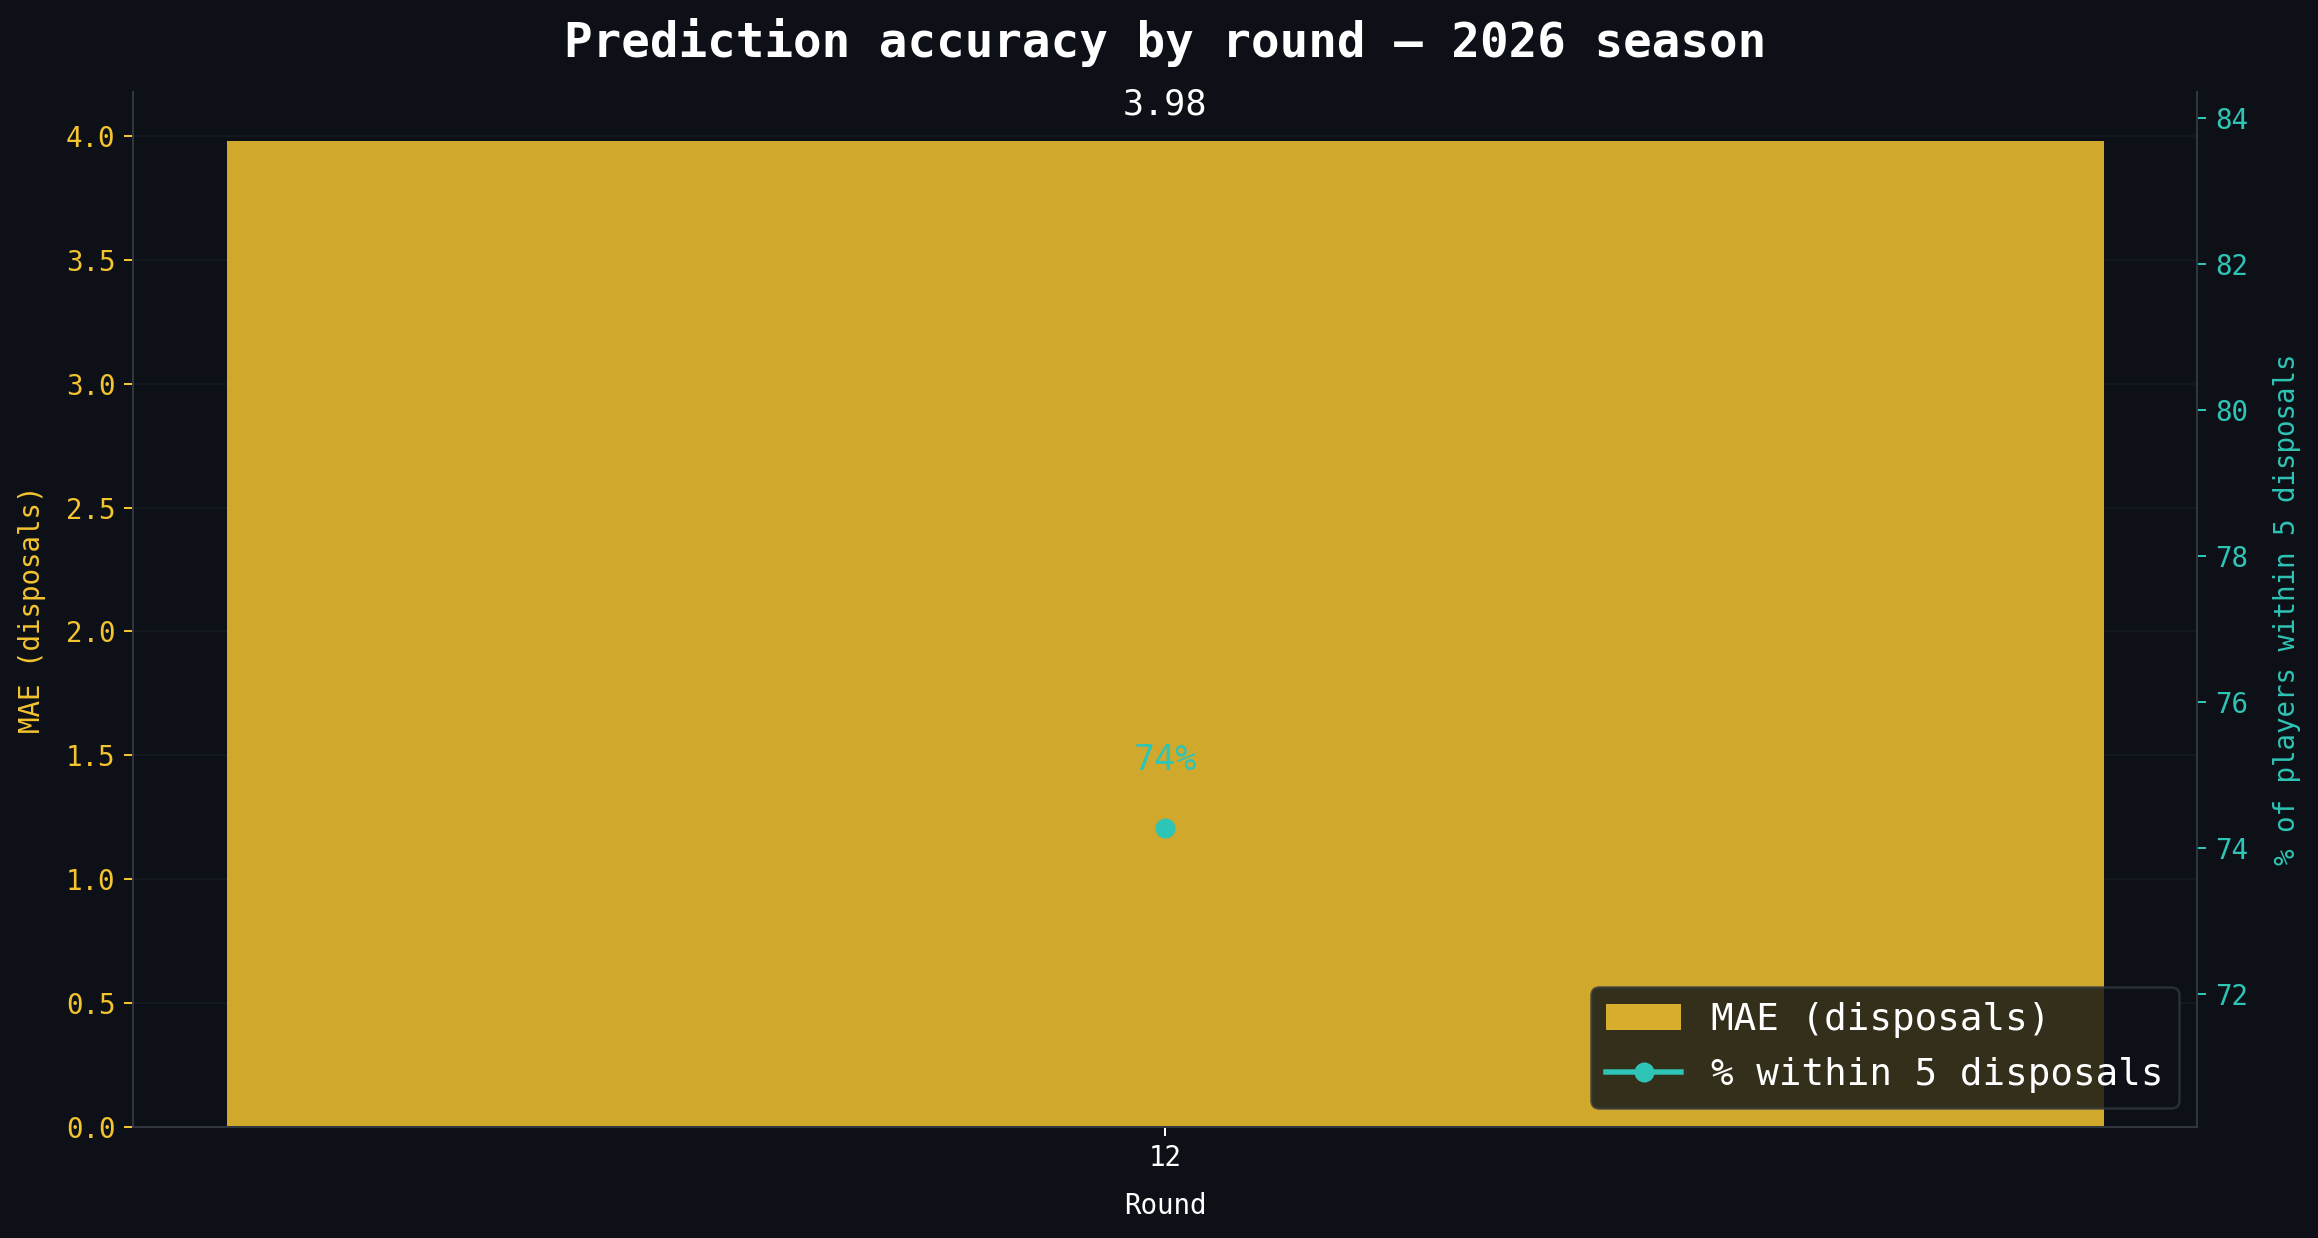
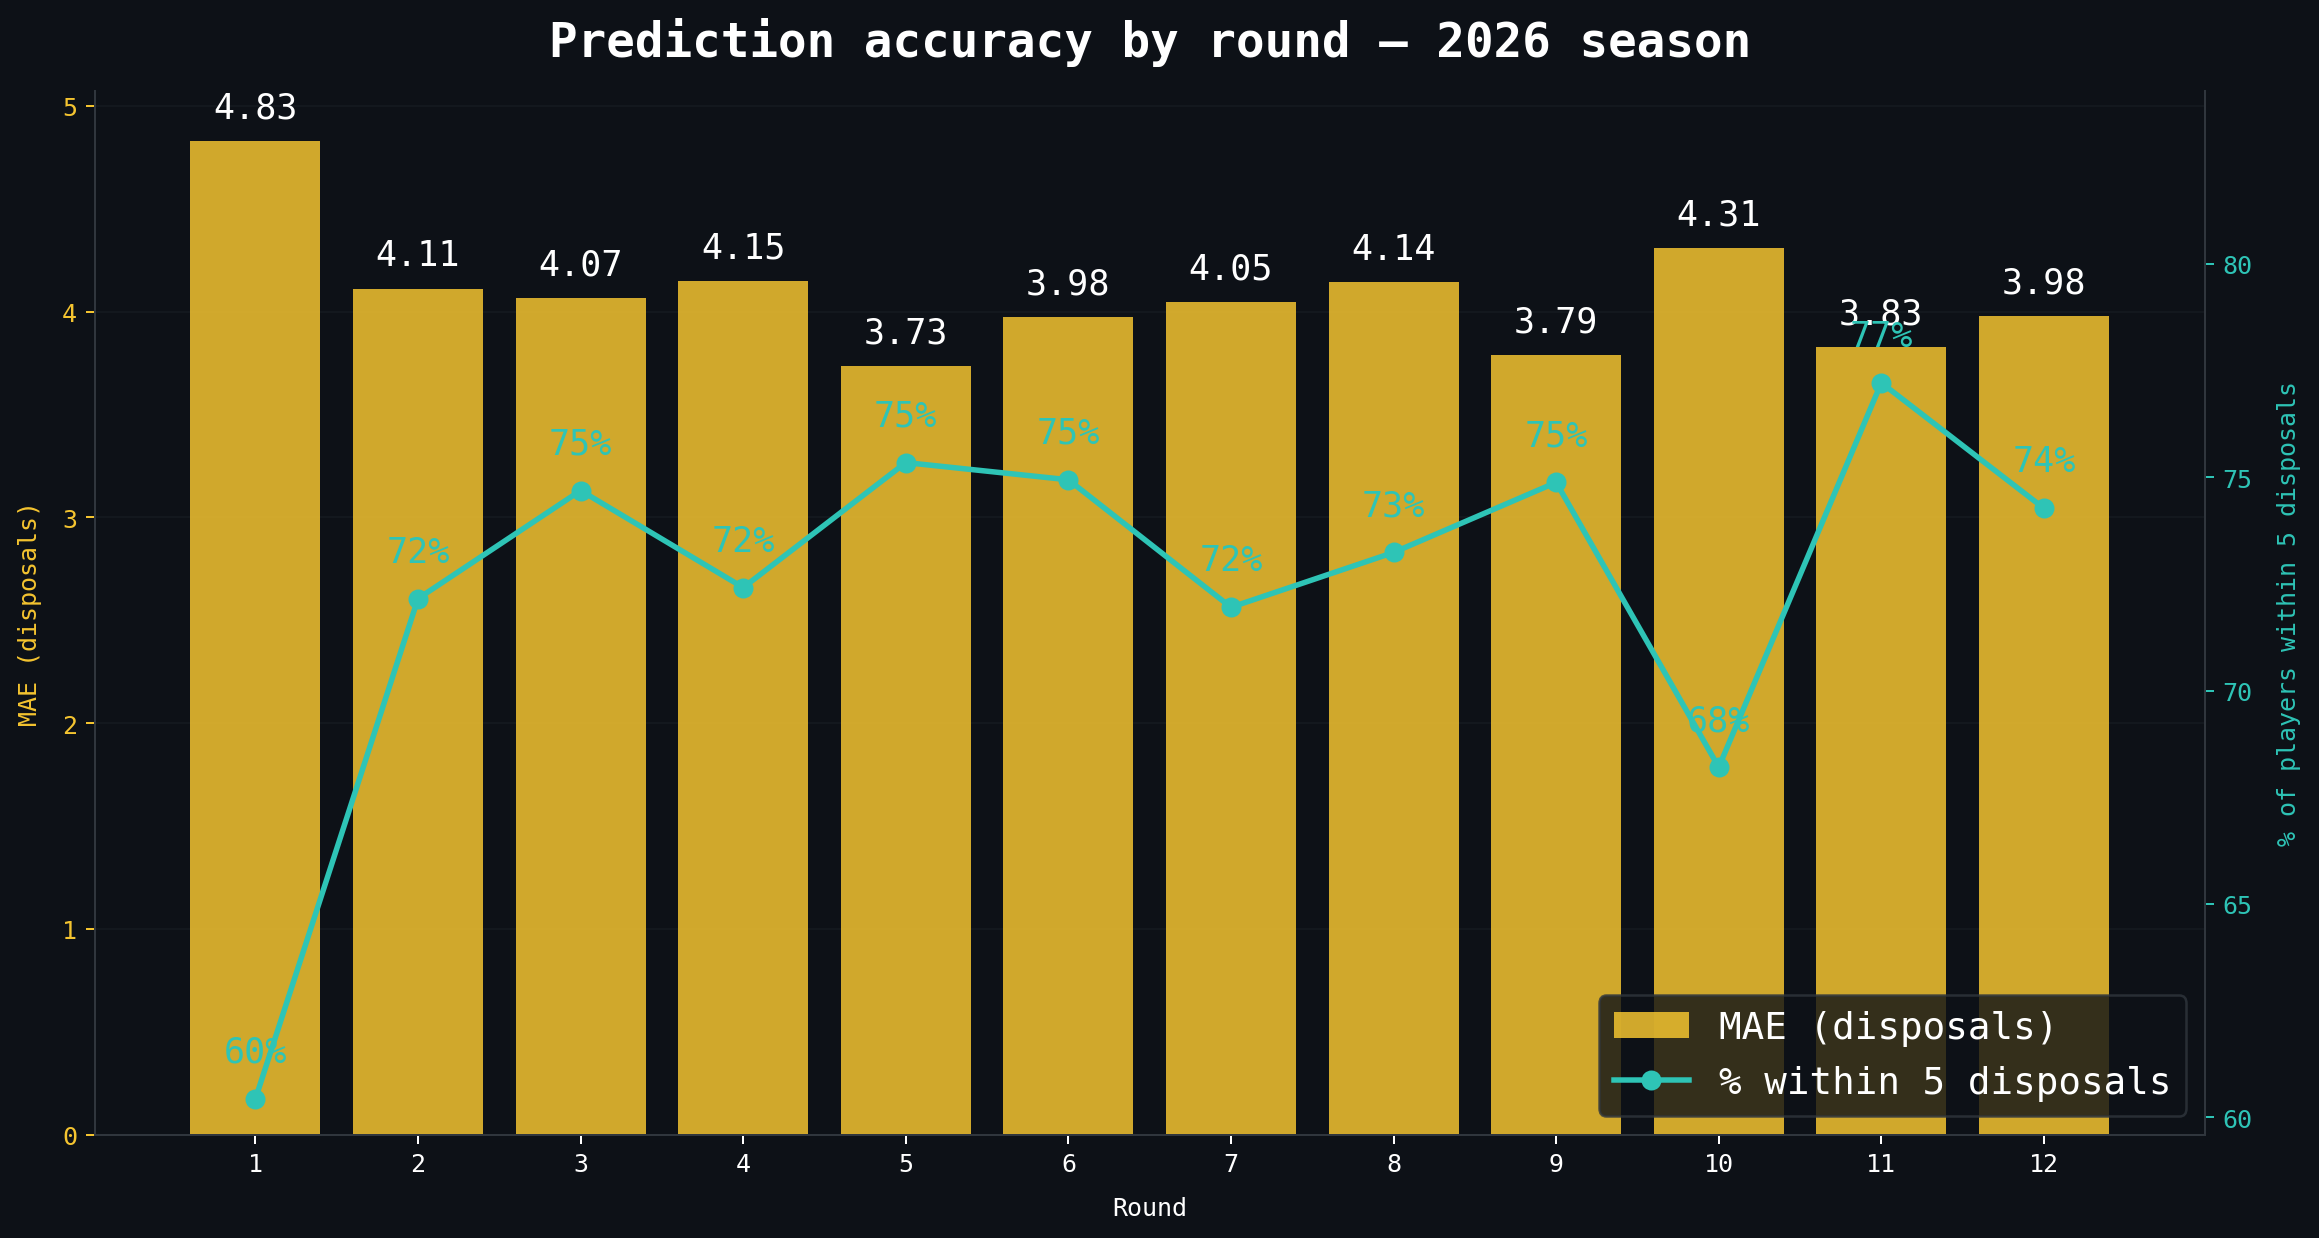
Fix backtest doc to show cumulative R1-R12 results (not just latest run)
update_team_analysis.py: merge ALL backtest_summary CSVs (oldest-first),
keep most-recent entry per (year,round) so incremental runs extend the
table rather than replacing it. Was broken because the R12-only summary
file was newer than the R1-R11 file and got picked exclusively.

afl-backtest-2026.md: update cumulative summary to R1-R12:
  - Rounds: 12, Player-rounds: 4,494, MAE: 4.056, RMSE: 5.190, Bias: -0.084
  - Chart regenerated with all 12 rounds visible

diff --git a/update_team_analysis.py b/update_team_analysis.py
@@ -4138,25 +4138,31 @@ def generate_backtest_section(year: int) -> str:
     """
     bt_dir = os.path.join(REPO_ROOT, "data", "prediction", "backtest")
     pattern = os.path.join(bt_dir, "backtest_summary_*.csv")
-    candidates = [p for p in glob.glob(pattern) if os.path.isfile(p)]
+    candidates = sorted(
+        [p for p in glob.glob(pattern) if os.path.isfile(p)],
+        key=os.path.getmtime,
+    )
     if not candidates:
-        return ""
-    latest = max(candidates, key=os.path.getmtime)
-    try:
-        df = pd.read_csv(latest)
-    except Exception as exc:
-        print(f"[backtest] could not read {os.path.basename(latest)}: {exc}", file=sys.stderr)
         return ""
     needed = {
         "round", "year", "n_players", "mae", "rmse",
         "pct_within_5", "pct_within_10",
     }
-    if not needed.issubset(df.columns):
-        print(
-            f"[backtest] {os.path.basename(latest)} missing columns "
-            f"(have {list(df.columns)})", file=sys.stderr,
-        )
+    # Merge ALL summary CSVs (oldest first), keeping the most-recent entry per
+    # (year, round) so that incremental runs extend rather than replace the table.
+    frames = []
+    for path in candidates:
+        try:
+            chunk = pd.read_csv(path)
+            if needed.issubset(chunk.columns):
+                frames.append(chunk)
+        except Exception as exc:
+            print(f"[backtest] skip {os.path.basename(path)}: {exc}", file=sys.stderr)
+    if not frames:
         return ""
+    df = pd.concat(frames, ignore_index=True)
+    # Keep newest entry per (year, round) — concat is oldest-first so last wins
+    df = df.drop_duplicates(subset=["year", "round"], keep="last")
     # Filter to the target year so cross-year summaries don't blend in
     df = df[df["year"] == year].copy()
     if df.empty:

diff --git a/docs/afl-backtest-2026.md b/docs/afl-backtest-2026.md
@@ -5,7 +5,7 @@
 *This file is auto-updated by `update_team_analysis.py` / `refresh_readme.py` on every data refresh.*
 
 <!-- 2026-BACKTEST-START -->
-*Last updated: 2026-05-25 · 1 rounds backtested · auto-generated*
+*Last updated: 2026-05-25 · 12 rounds backtested · auto-generated*
 
 ### What is a backtest?
 
@@ -34,9 +34,20 @@ This is the honest test. The model never gets to see the round it's predicting.
 
 | Round | Players | MAE | RMSE | Within 5 disp | Within 10 disp |
 |------:|--------:|----:|-----:|--------------:|---------------:|
+| 1 | 230 | 4.83 | 6.10 | 60.4% | 92.6% |
+| 2 | 413 | 4.11 | 5.11 | 72.2% | 95.9% |
+| 3 | 320 | 4.07 | 5.28 | 74.7% | 95.9% |
+| 4 | 319 | 4.15 | 5.32 | 72.4% | 94.7% |
+| 5 | 365 | 3.73 | 4.74 | 75.3% | 97.5% |
+| 6 | 411 | 3.98 | 5.05 | 74.9% | 95.9% |
+| 7 | 410 | 4.05 | 5.15 | 72.0% | 95.6% |
+| 8 | 411 | 4.14 | 5.27 | 73.2% | 95.4% |
+| 9 | 410 | 3.79 | 4.74 | 74.9% | 98.3% |
+| 10 | 412 | 4.31 | 5.50 | 68.2% | 94.9% |
+| 11 | 373 | 3.83 | 5.01 | 77.2% | 95.2% |
 | 12 | 412 | 3.98 | 5.24 | 74.3% | 94.9% |
 
-**Overall (mean across 1 rounds):** MAE 3.98 disposals · 74.3% of predictions within 5 disposals · 94.9% within 10.
+**Overall (mean across 12 rounds):** MAE 4.08 disposals · 72.5% of predictions within 5 disposals · 95.6% within 10.
 
 > **What to look for:** MAE should stay flat or improve as the season progresses — the model gets more data per player each round. A spike in Round 1 (MAE ~4.9) is normal because many players have no 2026 history yet. If MAE rises sharply mid-season, it usually means an unusual game week (byes, interstate travel, weather).
 
@@ -88,13 +99,13 @@ The per-round table above reports the mean across each round individually. The *
 
 | Metric | Value | What it means |
 |---|---|---|
-| Rounds backtested | 11 (R1–R11) | Walk-forward — each round predicted using only data from rounds before it |
-| Player predictions scored | **4,074** | Total prediction-vs-actual pairs across the 11 rounds |
-| **MAE (overall)** | **4.063 disposals** | Average absolute miss across every player-round |
-| **RMSE (overall)** | **5.195 disposals** | Penalises large misses more heavily; small gap to MAE means few extreme blunders |
-| **Bias (overall)** | **−0.069 disposals** | Model under-predicts by less than 1/10 of a disposal on average — essentially unbiased |
-| Cumulative MAE (mean of round MAE) | 4.09 | Equally weights each round; close to the player-weighted figure so no single round is dominating |
-| Median round MAE | 4.07 | Half the rounds beat this number, half fell short — the model is consistent week-to-week |
+| Rounds backtested | 12 (R1–R12) | Walk-forward — each round predicted using only data from rounds before it |
+| Player predictions scored | **4,494** | Total prediction-vs-actual pairs across the 12 rounds |
+| **MAE (overall)** | **4.056 disposals** | Average absolute miss across every player-round |
+| **RMSE (overall)** | **5.190 disposals** | Penalises large misses more heavily; small gap to MAE means few extreme blunders |
+| **Bias (overall)** | **−0.084 disposals** | Model under-predicts by less than 1/10 of a disposal on average — essentially unbiased |
+| Cumulative MAE (mean of round MAE) | 4.08 | Equally weights each round; close to the player-weighted figure so no single round is dominating |
+| Median round MAE | 4.06 | Half the rounds beat this number, half fell short — the model is consistent week-to-week |
 
 **Read:** the model is essentially unbiased at the population level (mean signed error ≈ 0), with a typical absolute miss of ~4 disposals. RMSE only 1.1 above MAE indicates the error distribution is reasonably tight — there is no fat tail of catastrophic mispredictions.
 